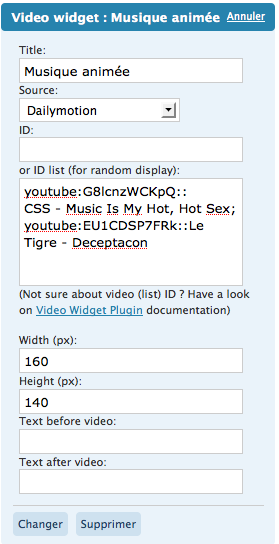
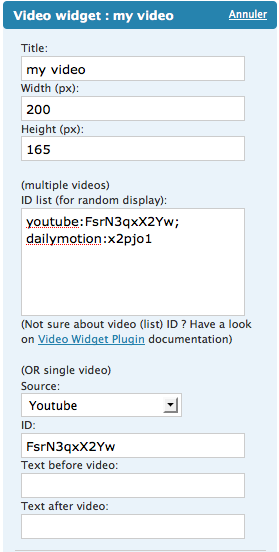
v2
git-svn-id: https://plugins.svn.wordpress.org/video-widget/tags/1.2@54412 b8457f37-d9ea-0310-8a92-e5e31aec5664

diff --git a/video.php b/video.php
@@ -261,6 +261,20 @@ function widget_video_control($widget_args)
 			<label for="video-title-<?php echo $number; ?>">Title:</label>
 			<input class="widefat" id="video-title-<?php echo $number; ?>" name="widget-video[<?php echo $number; ?>][title]" type="text" value="<?php echo $title; ?>" />
 			
+			<label for="video-width-<?php echo $number; ?>">Width (px):</label>
+			<input class="widefat" id="video-width-<?php echo $number; ?>" name="widget-video[<?php echo $number; ?>][width]" type="text" value="<?php echo $width; ?>" />
+			
+			<label for="video-height-<?php echo $number; ?>">Height (px):</label>
+			<input class="widefat" id="video-height-<?php echo $number; ?>" name="widget-video[<?php echo $number; ?>][height]" type="text" value="<?php echo $height; ?>" />
+			
+			<br /><br />
+			(Multiple videos)<br />	
+			<label for="video-idlist-<?php echo $number; ?>">ID list (for random display):</label>
+			<textarea class="widefat" id="video-idlist-<?php echo $number; ?>" name="widget-video[<?php echo $number; ?>][idlist]" rows="5"><?php echo $idlist; ?></textarea>
+			(Not sure about video (list) ID ? Have a look on <a href="http://www.nikohk.com/plugin-wordpress-video-widget/" title="Video Widget Plugin">Video Widget Plugin</a> documentation)
+			<br /><br />
+
+			(OR single video)<br />
 			<label for="video-source-<?php echo $number; ?>">Source:</label>
 			<select class="widefat" name="widget-video[<?php echo $number; ?>][source]" id="video-source-<?php echo $number; ?>">
 			<?php
@@ -308,17 +322,7 @@ function widget_video_control($widget_args)
 			
 			<label for="video-id-<?php echo $number; ?>">ID:</label>
 			<input class="widefat" id="video-id-<?php echo $number; ?>" name="widget-video[<?php echo $number; ?>][id]" type="text" value="<?php echo $id; ?>" />
-			<label for="video-idlist-<?php echo $number; ?>">or ID list (for random display):</label>
-			<textarea class="widefat" id="video-idlist-<?php echo $number; ?>" name="widget-video[<?php echo $number; ?>][idlist]" rows="5"><?php echo $idlist; ?></textarea>
-			(Not sure about video (list) ID ? Have a look on <a href="http://www.nikohk.com/plugin-wordpress-video-widget/" title="Video Widget Plugin">Video Widget Plugin</a> documentation)
-			<br /><br />
 
-			<label for="video-width-<?php echo $number; ?>">Width (px):</label>
-			<input class="widefat" id="video-width-<?php echo $number; ?>" name="widget-video[<?php echo $number; ?>][width]" type="text" value="<?php echo $width; ?>" />
-			
-			<label for="video-height-<?php echo $number; ?>">Height (px):</label>
-			<input class="widefat" id="video-height-<?php echo $number; ?>" name="widget-video[<?php echo $number; ?>][height]" type="text" value="<?php echo $height; ?>" />
-			
 			<label for="video-textbefore-<?php echo $number; ?>">Text before video:</label>
 			<input class="widefat" id="video-textbefore-<?php echo $number; ?>" name="widget-video[<?php echo $number; ?>][textbefore]" type="text" value="<?php echo $textbefore; ?>" />
 
